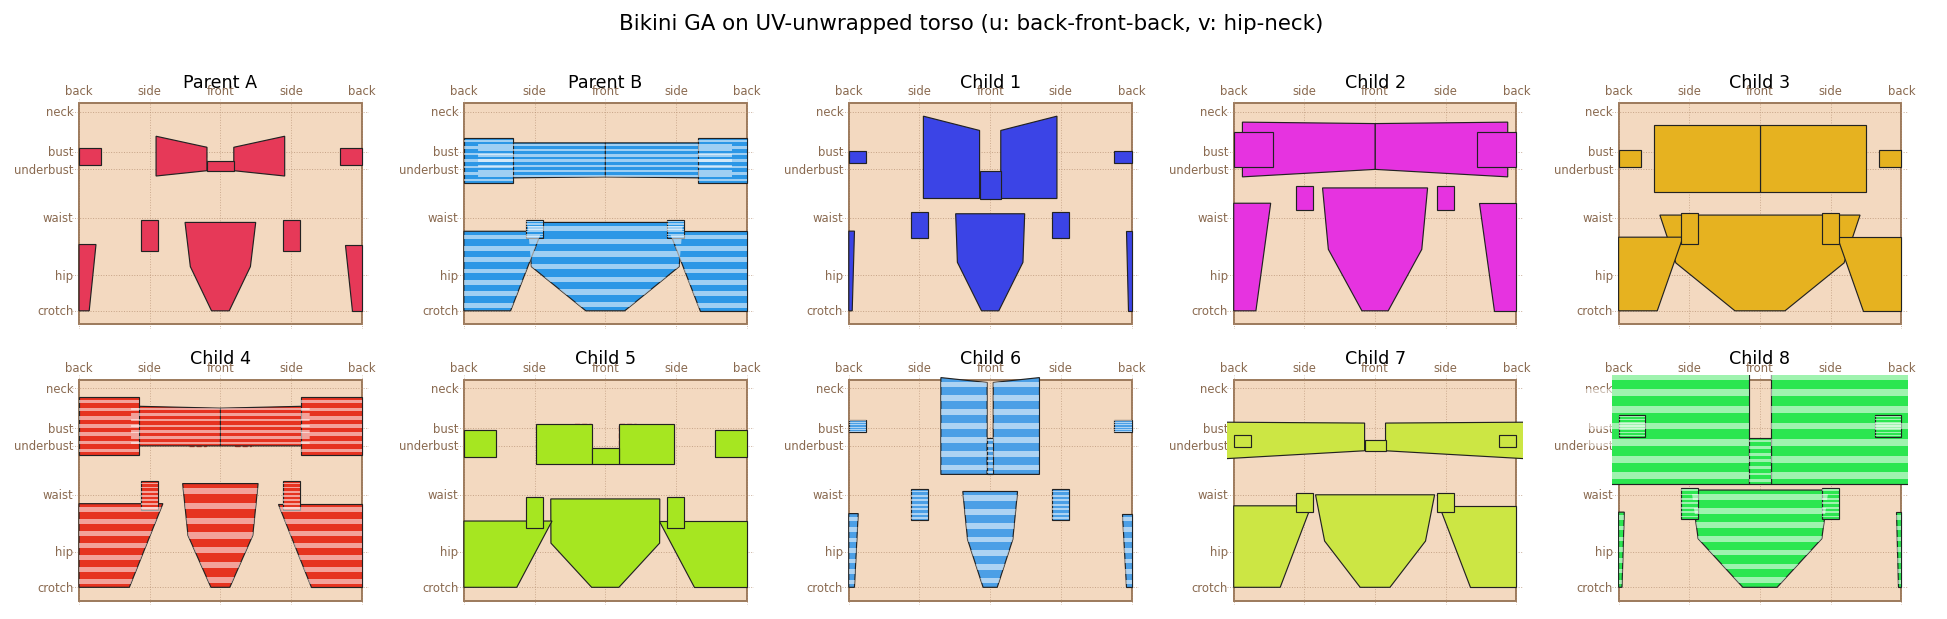
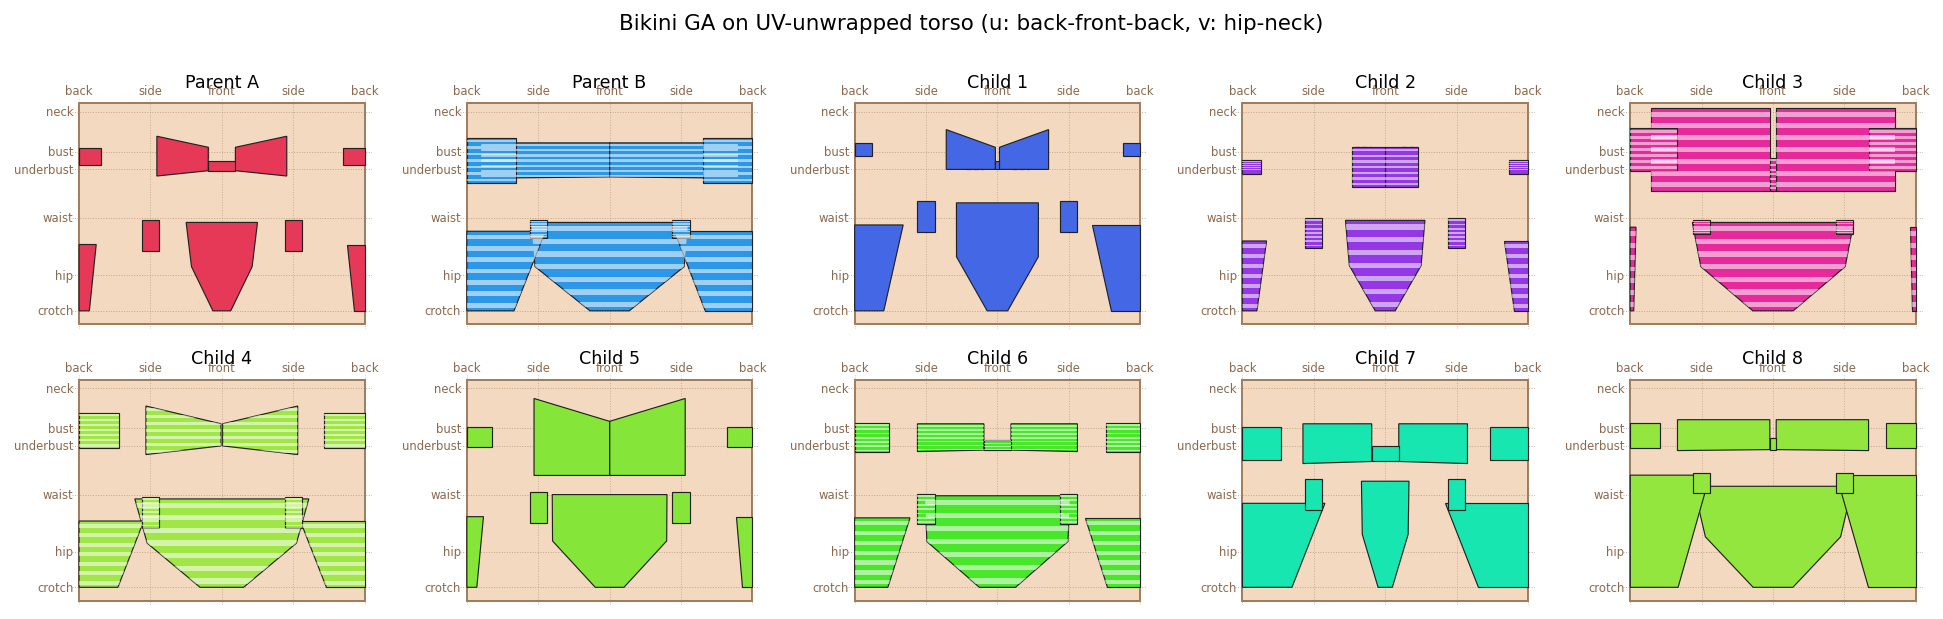
ga: add strap style genes — halter / shoulder-strap / tie-dangle
Genome gains three new continuous fields so the GA mixes strap
topology and not only fabric panels:

- top_neck_strap   [0,1]: halter intensity. When >0.15 two tubes rise
  from the inner-top of each cup, arch up, and meet at a point behind
  the neck — classic halter routing. Thickness scales with the value.
- top_shoulder_strap [0,1]: shoulder-strap intensity. When >0.15 two
  tubes run from each cup's outer-top diagonally in-and-up to the
  shoulder (triangle-style bikini top).
- bot_tie_dangle   [0,1]: length of hanging tie tails off the side
  knots. When >0.15 a thin tube drops 2-16cm straight down from each
  hip.

Parents now seed a deliberate style contrast so the GA explores the
whole mixed space:
- Parent A: shoulder straps + long dangles + no halter (triangle+thong)
- Parent B: halter + no shoulder straps + no dangle (halter-bandeau
  with high-waist bottom)

Rendering helpers added:
- _body_point_at(): pick a torso-side vertex at a given (u, y) with the
  same 'smallest XZ radius within angular tolerance' trick used for
  ring sampling — avoids placing strap anchors on arms.
- _tube_between(): 6-sided prism between two points.
- _arc_tube(): swept tube through an arbitrary polyline.

Children now visibly mix styles — some inherit halter+dangle, some
shoulder+no-dangle, etc — proving the genes combine correctly.

diff --git a/tools/render3d_uv.py b/tools/render3d_uv.py
@@ -391,6 +391,78 @@ def _build_tie_mesh(body_vertices: np.ndarray, y_lo_world: float, y_hi_world: fl
     return tri
 
 
+def _body_point_at(body_vertices: np.ndarray, u: float, y_level: float,
+                    y_tol: float = 3.0, angle_tol: float = 0.12,
+                    max_torso_radius: float = 22.0) -> np.ndarray:
+    """Find a point on the torso surface at (u, y_level). Same idea as
+    _body_ring but returns a single XYZ."""
+    near = body_vertices[(body_vertices[:, 1] > y_level - y_tol) &
+                          (body_vertices[:, 1] < y_level + y_tol)]
+    if len(near) > 0:
+        r = np.sqrt(near[:, 0] ** 2 + near[:, 2] ** 2)
+        near = near[r < max_torso_radius]
+    if len(near) < 3:
+        near = body_vertices[(body_vertices[:, 1] > y_level - y_tol) &
+                              (body_vertices[:, 1] < y_level + y_tol)]
+    theta = np.arctan2(near[:, 0], near[:, 2])
+    r_xz = np.sqrt(near[:, 0] ** 2 + near[:, 2] ** 2)
+    target = u * np.pi
+    d = np.abs(np.mod(theta - target + np.pi, 2 * np.pi) - np.pi)
+    close = np.where(d < angle_tol)[0]
+    if len(close) > 0:
+        idx = close[np.argmin(r_xz[close])]
+    else:
+        idx = int(np.argmin(d))
+    return near[idx].astype(np.float64)
+
+
+def _tube_between(p0: np.ndarray, p1: np.ndarray, radius: float = 0.25,
+                   sides: int = 6) -> o3d.geometry.TriangleMesh:
+    """Build a narrow N-sided prism from p0 to p1."""
+    p0 = np.asarray(p0, dtype=np.float64)
+    p1 = np.asarray(p1, dtype=np.float64)
+    axis = p1 - p0
+    length = float(np.linalg.norm(axis))
+    if length < 1e-4:
+        return o3d.geometry.TriangleMesh()
+    axis_u = axis / length
+    # pick a reference vector not parallel to axis
+    ref = np.array([0.0, 1.0, 0.0]) if abs(axis_u[1]) < 0.9 else np.array([1.0, 0.0, 0.0])
+    n1 = np.cross(axis_u, ref); n1 /= np.linalg.norm(n1)
+    n2 = np.cross(axis_u, n1)
+
+    verts, faces = [], []
+    for i in range(sides):
+        a = 2 * np.pi * i / sides
+        dir = np.cos(a) * n1 + np.sin(a) * n2
+        verts.append(p0 + dir * radius)
+        verts.append(p1 + dir * radius)
+    for i in range(sides):
+        a0, b0 = 2 * i, 2 * i + 1
+        a1, b1 = 2 * ((i + 1) % sides), 2 * ((i + 1) % sides) + 1
+        faces.append([a0, b0, b1])
+        faces.append([a0, b1, a1])
+    mesh = o3d.geometry.TriangleMesh()
+    mesh.vertices = o3d.utility.Vector3dVector(np.array(verts))
+    mesh.triangles = o3d.utility.Vector3iVector(np.array(faces, dtype=np.int32))
+    mesh.compute_vertex_normals()
+    return mesh
+
+
+def _arc_tube(points: np.ndarray, radius: float = 0.25, sides: int = 6
+              ) -> o3d.geometry.TriangleMesh:
+    """A swept tube through a sequence of points (polyline)."""
+    pts = np.asarray(points, dtype=np.float64)
+    if len(pts) < 2:
+        return o3d.geometry.TriangleMesh()
+    mesh = o3d.geometry.TriangleMesh()
+    for i in range(len(pts) - 1):
+        seg = _tube_between(pts[i], pts[i + 1], radius=radius, sides=sides)
+        mesh += seg
+    mesh.compute_vertex_normals()
+    return mesh
+
+
 def build_strap_meshes(body_mesh: o3d.geometry.TriangleMesh, g,
                        y_crotch: float, y_neck: float
                        ) -> list[tuple[str, o3d.geometry.TriangleMesh]]:
@@ -438,6 +510,59 @@ def build_strap_meshes(body_mesh: o3d.geometry.TriangleMesh, g,
     for u_side, name in [(0.5, "side_tie_R"), (-0.5, "side_tie_L")]:
         tie = _build_tie_mesh(V, y_side_lo, y_side_hi, u_side)
         straps.append((name, tie))
+
+    # 4) Tie dangles — hanging "tail" tubes off the side ties. Length
+    #    scales with g.bot_tie_dangle. Drawn as a thin tube going straight
+    #    down from the hip.
+    if g.bot_tie_dangle > 0.15:
+        dangle_len = 2.0 + 14.0 * g.bot_tie_dangle   # cm, up to ~16cm
+        for u_side, name in [(0.5, "dangle_R"), (-0.5, "dangle_L")]:
+            anchor = _body_point_at(V, u_side, (y_side_lo + y_side_hi) / 2)
+            rxz = np.array([anchor[0], 0.0, anchor[2]])
+            rxz /= max(np.linalg.norm(rxz), 1e-6)
+            p0 = anchor + rxz * 0.6
+            p1 = p0 - np.array([0.0, dangle_len, 0.0])
+            dangle = _tube_between(p0, p1, radius=0.15, sides=5)
+            straps.append((name, dangle))
+
+    # 5) Halter neck strap — a curved tube from the inner-top of each cup
+    #    up over the BACK of the neck. Controlled by g.top_neck_strap.
+    if g.top_neck_strap > 0.15:
+        strap_r = 0.15 + 0.25 * g.top_neck_strap     # ~1.5 to 4 mm radius
+        cup_top_v = g.top_center_v + g.top_half_v
+        u_inner_halter = 0.03 + 0.05 * g.top_inner_u
+        y_start = v_to_y(cup_top_v)
+        anchor_R = _body_point_at(V, u_inner_halter, y_start)
+        anchor_L = _body_point_at(V, -u_inner_halter, y_start)
+        # go up to the neck area and around to the back
+        y_neck_top = y_neck + 12.0
+        # midpoint behind the neck (z < 0)
+        neck_mid = np.array([0.0, y_neck_top, -8.0])
+        # simple 3-segment polyline per side: anchor -> forward-upper point
+        # -> neck back midpoint, for each cup. They meet at neck_mid.
+        up_R = anchor_R + np.array([0.0, 6.0, 0.0]) + np.array([anchor_R[0] * 0.1, 0, 0])
+        up_L = anchor_L + np.array([0.0, 6.0, 0.0]) + np.array([anchor_L[0] * 0.1, 0, 0])
+        halter_R = _arc_tube(np.array([anchor_R, up_R, neck_mid]), radius=strap_r)
+        halter_L = _arc_tube(np.array([anchor_L, up_L, neck_mid]), radius=strap_r)
+        straps.append(("halter_R", halter_R))
+        straps.append(("halter_L", halter_L))
+
+    # 6) Shoulder straps — two tubes from outer-top of each cup up to the
+    #    shoulder (where they'd meet the back band in reality). Controlled
+    #    by g.top_shoulder_strap.
+    if g.top_shoulder_strap > 0.15:
+        strap_r = 0.15 + 0.22 * g.top_shoulder_strap
+        cup_top_v = g.top_center_v + g.top_half_v
+        u_outer = g.top_inner_u + 2 * g.top_half_u
+        y_start = v_to_y(cup_top_v)
+        y_shoulder = y_neck + 8.0                    # just below shoulder cap
+        for u_s, name in [(u_outer, "shoulder_R"), (-u_outer, "shoulder_L")]:
+            anchor = _body_point_at(V, u_s, y_start)
+            # shoulder end: slightly outward of anchor, up at shoulder height,
+            # and on the TOP of the shoulder (y slightly forward in z)
+            shoulder_end = _body_point_at(V, u_s * 0.6, y_shoulder)
+            strap = _arc_tube(np.array([anchor, shoulder_end]), radius=strap_r)
+            straps.append((name, strap))
 
     return straps
 

diff --git a/tools/verify_ga_uv.py b/tools/verify_ga_uv.py
@@ -72,12 +72,15 @@ CONT_FIELDS = [
     "top_apex_lift",       # concave top edge: +ve = V at center (triangle), -ve = bandeau flat
     "top_underband_dip",   # concave bottom edge: +ve pushes bottom inward under bust
     "top_back_coverage",   # 0 = back strap only, 1 = full back panel
+    "top_neck_strap",      # 0 = none, 1 = prominent halter across the back of the neck
+    "top_shoulder_strap",  # 0 = none, 1 = prominent shoulder straps (triangle-style)
     # BOTTOM
     "bot_front_top_v",     # waistline height at front
     "bot_front_half_u",    # half-width of front panel around u=0
     "bot_front_leg_curve", # concavity of front leg opening
     "bot_back_top_v",      # waistline height at back
     "bot_back_half_u",     # half-width of back panel around u=±1 (small -> thong)
+    "bot_tie_dangle",      # 0 = no knot tails, 1 = long dangling strings past the hip
     # COLOR
     "hue",
     "saturation",
@@ -94,11 +97,14 @@ class Genome:
     top_apex_lift: float
     top_underband_dip: float
     top_back_coverage: float
+    top_neck_strap: float
+    top_shoulder_strap: float
     bot_front_top_v: float
     bot_front_half_u: float
     bot_front_leg_curve: float
     bot_back_top_v: float
     bot_back_half_u: float
+    bot_tie_dangle: float
     hue: float
     saturation: float
 
@@ -467,24 +473,28 @@ def render_one(ax, g: Genome, title: str):
 # --------------------------------------------------------------------------
 
 def make_parents() -> tuple[Genome, Genome]:
-    # Parent A: triangle-ish top + thong + solid red
+    # Parent A: triangle top + thong + shoulder straps + long hip dangles
     a = Genome(
         pattern="solid",
         top_center_v=0.76, top_half_v=0.09, top_half_u=0.18,
         top_inner_u=0.12, top_apex_lift=0.10, top_underband_dip=0.08,
         top_back_coverage=0.12,
+        top_neck_strap=0.0, top_shoulder_strap=0.85,
         bot_front_top_v=0.22, bot_front_half_u=0.25, bot_front_leg_curve=0.60,
         bot_back_top_v=0.20, bot_back_half_u=0.12,
+        bot_tie_dangle=0.75,
         hue=0.97, saturation=0.75,
     )
-    # Parent B: bandeau top + high-waist + striped blue
+    # Parent B: halter bandeau + high-waist + no dangles + striped blue
     b = Genome(
         pattern="stripe",
         top_center_v=0.74, top_half_v=0.08, top_half_u=0.45,
         top_inner_u=0.0,  top_apex_lift=-0.03, top_underband_dip=0.02,
         top_back_coverage=0.55,
+        top_neck_strap=0.80, top_shoulder_strap=0.0,
         bot_front_top_v=0.42, bot_front_half_u=0.55, bot_front_leg_curve=0.20,
         bot_back_top_v=0.42, bot_back_half_u=0.55,
+        bot_tie_dangle=0.05,
         hue=0.57, saturation=0.85,
     )
     return _enforce_constraints(a.clipped()), _enforce_constraints(b.clipped())
